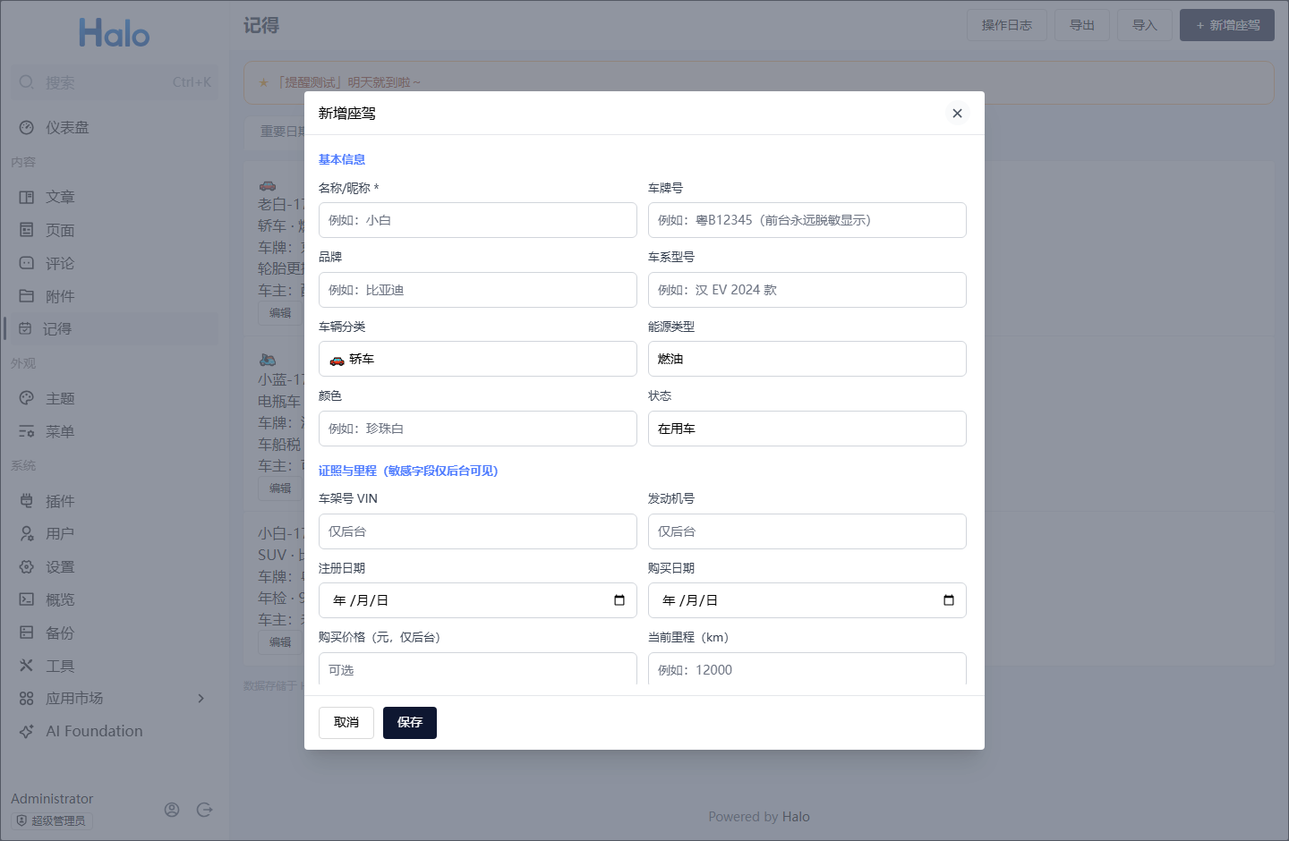
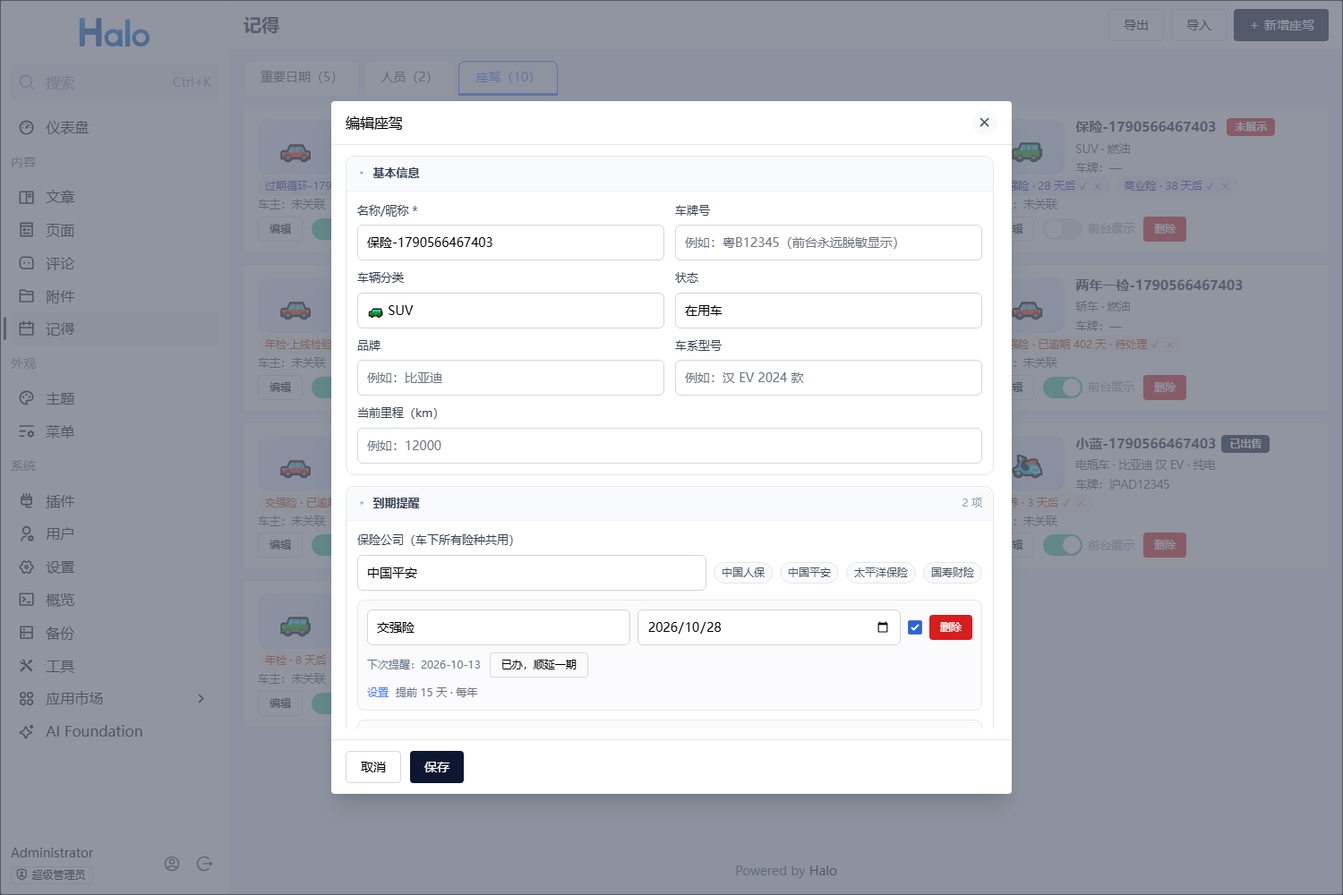
release: v1.3.0 - vehicle forms tiered by vehicle type, rebuilt car dialog, and a fix for a defect that shipped in 1.2.6/1.2.7
Version 1.3.0 (stable). Highlights:

- Fixed a shipped defect: the trailing return in resolveDueDate() had been swallowed into the
  preceding comment, so every non-inspection reminder resolved to null and the console vehicle
  cards lost their insurance/tax/maintenance due badges entirely. The dashboard widget and the
  reminder state machine read the server endpoint, which is why the existing suites stayed green.
- The vehicle form is tiered by "has an engine / has a plate": e-bike locks the energy type to EV
  and keeps only the plate and frame number; bicycle drops plate, energy type, frame number,
  mileage and purchase price; insurer and the insurance/inspection/road-tax items only appear for
  motor vehicles. Driver licence renewal is no longer attached to a vehicle.
- Switching vehicle type keeps data: unsupported items are archived in the form, written back
  untouched, and neither the console nor the backend alerts on them until the type supports them
  again.
- The car dialog is regrouped into five collapsible sections built on native <details>, and each
  due item is a single row with its details behind "settings".
- Legacy energy values are corrected at display time only (bicycle -> human, e-bike -> EV, stray
  human -> fuel); stored data is never rewritten.
- Removed unreachable code: self-check panel, operation-log dialog and their call sites,
  selfCheck.ts, OperationLog.java, OperationLogCleaner.java, orphaned CSS, and the stale
[…]

diff --git a/README.store.md b/README.store.md
@@ -16,7 +16,7 @@
 | ![仪表盘提醒小组件](https://raw.githubusercontent.com/yyliucha/plugin-important-dates/main/docs/screenshots/screenshot-dashboard.png) | **控制台仪表盘小组件**：到期提醒常驻仪表盘，每分钟自动刷新 |
 | ![后台页签](https://raw.githubusercontent.com/yyliucha/plugin-important-dates/main/docs/screenshots/screenshot-console-main.png) | **后台页签**：重要日期 / 人员 / 座驾，提醒横幅 + 卡片列表 + 拖拽排序 |
 | ![座驾列表](https://raw.githubusercontent.com/yyliucha/plugin-important-dates/main/docs/screenshots/screenshot-console-car.png) | **座驾页签**：分类图标、车牌、到期徽章（已过期 / 临近）、车主与驾驶人、前台开关 |
-| ![座驾表单](https://raw.githubusercontent.com/yyliucha/plugin-important-dates/main/docs/screenshots/screenshot-console-car-form.png) | **座驾表单**：分类（含电瓶车 / 自行车）、能源、证照与里程、多图相册、到期项 |
+| ![座驾表单](https://raw.githubusercontent.com/yyliucha/plugin-important-dates/main/docs/screenshots/screenshot-console-car-form.png) | **座驾表单（1.3.0）**：五个可折叠分区（基本信息 / 到期提醒默认展开）；字段按车型显示——电瓶车锁定「纯电」、不留发动机号，自行车连车牌与能源都不出现 |
 | ![前台页面](https://raw.githubusercontent.com/yyliucha/plugin-important-dates/main/docs/screenshots/screenshot-frontend-page.png) | **前台 `/important-dates`**：生活视图——重要日期 + 牵挂的人（生日与纪念日倒计时） |
 | ![前台爱车视图](https://raw.githubusercontent.com/yyliucha/plugin-important-dates/main/docs/screenshots/screenshot-frontend-car.png) | **爱车视图**：车辆卡片（脱敏车牌、到期徽章）+ 车主与驾驶人（统一徽章）+ 其他重要的人 |
 | ![前台相册](https://raw.githubusercontent.com/yyliucha/plugin-important-dates/main/docs/screenshots/screenshot-frontend-album.png) | **相册查看**：点击封面全屏浏览（只读、Esc 关闭），仅显示后台勾选「展示」的照片 |
@@ -35,6 +35,8 @@
 
 **🚗 座驾（汽车 / 电瓶车 / 自行车）**
 - **17 类分类**（轿车 / SUV / MPV / 跑车 / 越野车 / 皮卡 / 旅行车 / 两厢车 / 跨界车 / 微面 / 房车 / 货车 / 客车 / 摩托车 / **电瓶车 / 自行车** / 其他）、能源类型（燃油 / 纯电 / 插混 / 油电混动 / 人力）、品牌型号、颜色、VIN、发动机号、注册与购买日期、里程、状态（在用车 / 已出售 / 已报废）
+- **按车型只显示用得上的字段（1.3.0）**：以「有没有发动机、有没有牌照」分档——**自行车**不显示车牌 / 能源类型 / 车架号 / 里程 / 购买价格；**电瓶车**保留车牌与车架号（称「整车编号 / 车架号」），能源类型锁定为**纯电**，不显示发动机号与首次登记日期；保险公司与保险 / 年检 / 车船税只对汽车、摩托车等机动车出现。编辑弹窗相应精简为**五个可折叠分区**（基本信息、到期提醒默认展开，相册 / 关联人员 / 更多资料收起并显示摘要），每条到期项压成一行、细节收进「设置」
+- **改车型不丢数据**：把汽车改成自行车时，已有的保险 / 年检项**保留在库里但不再展示、也不再提醒**（表单里看不到、卡片与前台都不出现），改回汽车后**原样恢复**，到期日一字不改
 - **多图相册**：上传或附件库多选、拖拽排序、设封面；**每张可单独勾选「展示」**（未勾选仅后台可见，适合行驶证、保单等证件照）
 - **附件库来源范围**：可在「设置 → 照片设置」为**人员大头贴**与**座驾相册**分别指定「分类（分组）」与「存储策略」；命中不到时**自动放宽范围**并在弹窗中说明当前生效范围与命中数（不会出现空白列表），也可一键「显示全部图片」
 - **图片失效自动降级**：附件被删除（或被其它插件的全局规则拦截）导致图片打不开时，前台封面回退车型图标、大头贴回退首字、相册显示占位说明——**访客永远看不到破图**；后台车辆/人员卡片会标出「含失效图片 N」「大头贴已失效」，可一键「移除失效图片」或逐张「重新选择」
@@ -44,7 +46,7 @@
 - **弹窗内动作原地生效**：在座驾编辑弹窗点「已办 / 撤销办理」立即写库、只刷新本行、**不关闭弹窗**（不必再"记得点保存"）
 - **提醒可逐条忽略**：前台横幅与仪表盘小组件每条右侧的 ✕ 表示"本次到期周期内不再提示"（存在浏览器里，到期日变化后自动恢复），可一键「恢复显示」，也可在设置里关闭
 - **年检规则可配置**：「座驾设置 → 年检节点（默认 2,4,6,10）」「从第几年起每年上线检验（默认 11）」可按当地车管所规则调整，表单预览与提醒同步
-- **到期提醒**：交强险 / 商业险 / 年检 / 保养（按上次保养 + 间隔月数推算）/ 车船税 / 驾照换证 / 自定义项；每项可设启用、提前天数与**循环间隔**（每年 / 每两年 / 每三年 / 不循环 / 自定义月数）；已出售 / 报废不再提醒
+- **到期提醒**：交强险 / 商业险 / 年检 / 保养（按上次保养 + 间隔月数推算）/ 车船税 / 自定义项；每项可设启用、提前天数与**循环间隔**（每年 / 每两年 / 每三年 / 不循环 / 自定义月数）；已出售 / 报废不再提醒（「驾照换证」自 1.3.0 起不再挂在座驾上——它属于"人"而非"车"，同一个人开两辆车不会重复提醒）
 - **保险公司填一次就够**：车辆级「保险公司」全车共用（含常用公司快捷提示），个别险种可「使用其他保险公司」单独覆盖；老数据启动时自动迁移（幂等）
 - **年检自动推算**：按「首次登记日期 + 车型规则」推算下一次年检（第 2/4 年免检申领 → 第 6/10 年上线检验 → 第 11 年起每年），提示阶段与依据，可「手动指定日期」覆盖；默认提前 30 天提醒
 - **年检 / 车船税默认与保险同期**：日期跟随交强险到期日（可取消后独立填写），保存时写入相同日期
@@ -80,7 +82,7 @@
 
 ## 兼容性
 
-- **Halo 2.26 及以上**（按官方 2.26 文档与扩展点实现；Java 17 字节码；1.2.6 在全新 2.26 实例经保养项语义、状态机、提示与撤销、图片失效降级、浏览器端到端 13/13 等专项验证）
+- **Halo 2.26 及以上**（按官方 2.26 文档与扩展点实现；Java 17 字节码；1.3.0 在真实 2.26 实例上以既有数据（含 10 辆历史车辆）完成功能自测 18/18 与前台回归 5/5，覆盖卡片到期项、车型联动、切车型不丢数据、折叠分区与老数据纠偏）
 - 管理员安装后默认拥有全部权限，无需手动配置角色权限
 
 ## 安装与升级
@@ -125,9 +127,11 @@ cd plugin-important-dates
 ./gradlew build
 ```
 
-构建结果位于 `build/libs/plugin-important-dates-<版本>.jar`（当前版本：`1.2.6`）。
+构建结果位于 `build/libs/plugin-important-dates-<版本>.jar`（当前版本：`1.3.0`）。
 
-> 版本说明：**最新正式版** `1.2.6`（提醒状态机：已办才滚动、逾期逐日提醒后转待处理、节点式提醒、保养项「已办」= 刚做完保养、一键撤销、前台只显示未逾期的待办项、弹窗内动作原地生效、提示语人性化；并含 `1.2.5` 写操作加固与图片失效降级、`1.2.4` 拖拽 503 修复、`1.2.3` 卡片样式修复、`1.2.2` 附件库范围修复）。装包后请强刷一次浏览器（Ctrl+Shift+R）。
+> 版本说明：**最新正式版** `1.3.0`（座驾按车型分档只显示用得上的字段——电瓶车锁定纯电、自行车不留车牌与能源；改车型保留数据不再提醒、改回即恢复；编辑弹窗改为可折叠分区；不再把「驾照换证」挂在座驾上；并修复 `1.2.6` 起后台座驾卡片的到期项标签会整块消失的缺陷）。装包后请强刷一次浏览器（Ctrl+Shift+R）。
+>
+> 更早：`1.2.6` 提醒状态机（已办才滚动、逾期逐日提醒、节点式提醒、保养项「已办」= 刚做完保养、一键撤销）与 `1.2.5` 写操作加固与图片失效降级、`1.2.4` 拖拽 503 修复、`1.2.3` 卡片样式修复、`1.2.2` 附件库范围修复。
 
 ## License
 

diff --git a/README.md b/README.md
@@ -16,7 +16,7 @@
 | ![仪表盘提醒小组件](docs/screenshots/screenshot-dashboard.png) | **控制台仪表盘小组件**：到期提醒常驻仪表盘，每分钟自动刷新 |
 | ![后台页签](docs/screenshots/screenshot-console-main.png) | **后台页签**：重要日期 / 人员 / 座驾，提醒横幅 + 卡片列表 + 拖拽排序 |
 | ![座驾列表](docs/screenshots/screenshot-console-car.png) | **座驾页签**：分类图标、车牌、到期徽章（已过期 / 临近）、车主与驾驶人、前台开关 |
-| ![座驾表单](docs/screenshots/screenshot-console-car-form.png) | **座驾表单**：分类（含电瓶车 / 自行车）、能源、证照与里程、多图相册、到期项 |
+| ![座驾表单](docs/screenshots/screenshot-console-car-form.png) | **座驾表单（1.3.0）**：五个可折叠分区（基本信息 / 到期提醒默认展开）；字段按车型显示——电瓶车锁定「纯电」、不留发动机号，自行车连车牌与能源都不出现 |
 | ![前台页面](docs/screenshots/screenshot-frontend-page.png) | **前台 `/important-dates`**：生活视图——重要日期 + 牵挂的人（生日与纪念日倒计时） |
 | ![前台爱车视图](docs/screenshots/screenshot-frontend-car.png) | **爱车视图**：车辆卡片（脱敏车牌、到期徽章）+ 车主与驾驶人（统一徽章）+ 其他重要的人 |
 | ![前台相册](docs/screenshots/screenshot-frontend-album.png) | **相册查看**：点击封面全屏浏览（只读、Esc 关闭），仅显示后台勾选「展示」的照片 |
@@ -35,6 +35,8 @@
 
 **🚗 座驾（汽车 / 电瓶车 / 自行车）**
 - **17 类分类**（轿车 / SUV / MPV / 跑车 / 越野车 / 皮卡 / 旅行车 / 两厢车 / 跨界车 / 微面 / 房车 / 货车 / 客车 / 摩托车 / **电瓶车 / 自行车** / 其他）、能源类型（燃油 / 纯电 / 插混 / 油电混动 / 人力）、品牌型号、颜色、VIN、发动机号、注册与购买日期、里程、状态（在用车 / 已出售 / 已报废）
+- **按车型只显示用得上的字段（1.3.0）**：以「有没有发动机、有没有牌照」分档——**自行车**不显示车牌 / 能源类型 / 车架号 / 里程 / 购买价格；**电瓶车**保留车牌与车架号（称「整车编号 / 车架号」），能源类型锁定为**纯电**，不显示发动机号与首次登记日期；保险公司与保险 / 年检 / 车船税只对汽车、摩托车等机动车出现。编辑弹窗相应精简为**五个可折叠分区**（基本信息、到期提醒默认展开，相册 / 关联人员 / 更多资料收起并显示摘要），每条到期项压成一行、细节收进「设置」
+- **改车型不丢数据**：把汽车改成自行车时，已有的保险 / 年检项**保留在库里但不再展示、也不再提醒**（表单里看不到、卡片与前台都不出现），改回汽车后**原样恢复**，到期日一字不改
 - **多图相册**：上传或附件库多选、拖拽排序、设封面；**每张可单独勾选「展示」**（未勾选仅后台可见，适合行驶证、保单等证件照）
 - **附件库来源范围**：可在「设置 → 照片设置」为**人员大头贴**与**座驾相册**分别指定「分类（分组）」与「存储策略」；命中不到时**自动放宽范围**并在弹窗中说明当前生效范围与命中数（不会出现空白列表），也可一键「显示全部图片」
 - **图片失效自动降级**：附件被删除（或被其它插件的全局规则拦截）导致图片打不开时，前台封面回退车型图标、大头贴回退首字、相册显示占位说明——**访客永远看不到破图**；后台车辆/人员卡片会标出「含失效图片 N」「大头贴已失效」，可一键「移除失效图片」或逐张「重新选择」
@@ -44,7 +46,7 @@
 - **弹窗内动作原地生效**：在座驾编辑弹窗点「已办 / 撤销办理」立即写库、只刷新本行、**不关闭弹窗**（不必再"记得点保存"）
 - **提醒可逐条忽略**：前台横幅与仪表盘小组件每条右侧的 ✕ 表示"本次到期周期内不再提示"（存在浏览器里，到期日变化后自动恢复），可一键「恢复显示」，也可在设置里关闭
 - **年检规则可配置**：「座驾设置 → 年检节点（默认 2,4,6,10）」「从第几年起每年上线检验（默认 11）」可按当地车管所规则调整，表单预览与提醒同步
-- **到期提醒**：交强险 / 商业险 / 年检 / 保养（按上次保养 + 间隔月数推算）/ 车船税 / 驾照换证 / 自定义项；每项可设启用、提前天数与**循环间隔**（每年 / 每两年 / 每三年 / 不循环 / 自定义月数）；已出售 / 报废不再提醒
+- **到期提醒**：交强险 / 商业险 / 年检 / 保养（按上次保养 + 间隔月数推算）/ 车船税 / 自定义项；每项可设启用、提前天数与**循环间隔**（每年 / 每两年 / 每三年 / 不循环 / 自定义月数）；已出售 / 报废不再提醒（「驾照换证」自 1.3.0 起不再挂在座驾上——它属于"人"而非"车"，同一个人开两辆车不会重复提醒）
 - **保险公司填一次就够**：车辆级「保险公司」全车共用（含常用公司快捷提示），个别险种可「使用其他保险公司」单独覆盖；老数据启动时自动迁移（幂等）
 - **年检自动推算**：按「首次登记日期 + 车型规则」推算下一次年检（第 2/4 年免检申领 → 第 6/10 年上线检验 → 第 11 年起每年），提示阶段与依据，可「手动指定日期」覆盖；默认提前 30 天提醒
 - **年检 / 车船税默认与保险同期**：日期跟随交强险到期日（可取消后独立填写），保存时写入相同日期
@@ -80,7 +82,7 @@
 
 ## 兼容性
 
-- **Halo 2.26 及以上**（按官方 2.26 文档与扩展点实现；Java 17 字节码；1.2.6 在全新 2.26 实例经保养项语义、状态机、提示与撤销、图片失效降级、浏览器端到端 13/13 等专项验证）
+- **Halo 2.26 及以上**（按官方 2.26 文档与扩展点实现；Java 17 字节码；1.3.0 在真实 2.26 实例上以既有数据（含 10 辆历史车辆）完成功能自测 18/18 与前台回归 5/5，覆盖卡片到期项、车型联动、切车型不丢数据、折叠分区与老数据纠偏）
 - 管理员安装后默认拥有全部权限，无需手动配置角色权限
 
 ## 安装与升级
@@ -125,9 +127,11 @@ cd plugin-important-dates
 ./gradlew build
 ```
 
-构建结果位于 `build/libs/plugin-important-dates-<版本>.jar`（当前版本：`1.2.6`）。
+构建结果位于 `build/libs/plugin-important-dates-<版本>.jar`（当前版本：`1.3.0`）。
 
-> 版本说明：**最新正式版** `1.2.6`（提醒状态机：已办才滚动、逾期逐日提醒后转待处理、节点式提醒、保养项「已办」= 刚做完保养、一键撤销、前台只显示未逾期的待办项、弹窗内动作原地生效、提示语人性化；并含 `1.2.5` 写操作加固与图片失效降级、`1.2.4` 拖拽 503 修复、`1.2.3` 卡片样式修复、`1.2.2` 附件库范围修复）。装包后请强刷一次浏览器（Ctrl+Shift+R）。
+> 版本说明：**最新正式版** `1.3.0`（座驾按车型分档只显示用得上的字段——电瓶车锁定纯电、自行车不留车牌与能源；改车型保留数据不再提醒、改回即恢复；编辑弹窗改为可折叠分区；不再把「驾照换证」挂在座驾上；并修复 `1.2.6` 起后台座驾卡片的到期项标签会整块消失的缺陷）。装包后请强刷一次浏览器（Ctrl+Shift+R）。
+>
+> 更早：`1.2.6` 提醒状态机（已办才滚动、逾期逐日提醒、节点式提醒、保养项「已办」= 刚做完保养、一键撤销）与 `1.2.5` 写操作加固与图片失效降级、`1.2.4` 拖拽 503 修复、`1.2.3` 卡片样式修复、`1.2.2` 附件库范围修复。
 
 ## License
 

diff --git a/README.en.md b/README.en.md
@@ -35,6 +35,8 @@ A Halo 2.x plugin that remembers things for you: anniversaries, birthdays and th
 
 **🚗 Vehicles (cars / e-bikes / bicycles)**
 - **17 categories** (sedan / SUV / MPV / sports / off-road / pickup / wagon / hatchback / crossover / van / RV / truck / bus / motorcycle / **e-bike / bicycle** / other), energy type (fuel / EV / PHEV / HEV / human), brand & model, colour, VIN, engine no., registration & purchase dates, mileage, status (in use / sold / scrapped)
+- **Only the fields your vehicle actually has (1.3.0)**: the form is tiered by "does it have an engine, does it have a plate" — a **bicycle** shows no plate, energy type, frame number, mileage or purchase price; an **e-bike** keeps the plate and frame number (labelled "frame / vehicle number"), locks the energy type to **EV** and hides the engine number and first-registration date; the insurer and the insurance / inspection / road-tax items only appear for cars, motorcycles and other motor vehicles. The dialog is regrouped into **five collapsible sections** (basic info and due items open by default; album, people and more collapsed with a summary), and each due item is a single row with its details behind "settings"
+- **Switching vehicle type never loses data**: turn a car into a bicycle and its insurance / inspection items are **kept in the database but no longer shown or alerted on** (absent from the form, the cards and the public page); switch back and they return exactly as they were, due dates untouched
 - **Photo album**: upload or multi-select from the attachment library, drag to reorder, set cover; **each photo can be toggled visible/hidden** (hidden ones stay admin-only — handy for licence and insurance papers)
 - **Attachment library scope**: under Settings → Photo settings you can point the **person avatar** and the **vehicle album** at a category (group) and a storage policy; when nothing matches, the scope **widens automatically** and the dialog explains what is in effect and how many images match (no more empty lists), with a one-click "show all images"
 - **Dead images degrade gracefully**: when an attachment is deleted (or blocked by another plugin's global rule), a public cover falls back to the vehicle icon, an avatar to the initial character and an album photo to a placeholder — **visitors never see a broken image**; the console flags `含失效图片 N` / `大头贴已失效` and offers one-click removal or per-photo replacement
@@ -44,7 +46,7 @@ A Halo 2.x plugin that remembers things for you: anniversaries, birthdays and th
 - **In-place actions**: Done / Undo inside the vehicle dialog persist immediately, refresh just that row and keep the dialog open
 - **Dismiss a single reminder**: the ✕ on each line of the public banner and the dashboard widget means "not again this due cycle" (stored in the browser, restored automatically when the due date changes), with one-click restore and a setting to switch the capability off
 - **Configurable inspection rule**: "Vehicle settings → inspection nodes (2,4,6,10 by default)" and "yearly on-site inspection from (11 by default)" adapt to your local vehicle-office rules, and the form preview and reminders follow
-- **Due reminders**: compulsory & commercial insurance, inspection, maintenance (computed from last service + interval), road tax, licence renewal, custom items; per-item lead days, on/off and **repeat interval** (every year / two years / three years / one-off / custom months); sold/scrapped vehicles stop reminding
+- **Due reminders**: compulsory & commercial insurance, inspection, maintenance (computed from last service + interval), road tax, custom items; per-item lead days, on/off and **repeat interval** (every year / two years / three years / one-off / custom months); sold/scrapped vehicles stop reminding (driver licence renewal is no longer attached to a vehicle as of 1.3.0 - it belongs to a person, so one driver with two cars is not reminded twice)
 - **One insurer per vehicle**: a vehicle-level insurer shared by every policy item (with quick picks for common companies); a single item can still override it, and existing data is migrated idempotently at startup
 - **Inspection derived from the rules**: the next inspection is derived from the first registration date plus the vehicle category (sticker in years 2/4, on-site in years 6/10, yearly from year 11) with the stage and its basis shown; a manual date can override it, and the default lead time is 30 days
 - **Inspection and road tax follow the insurance date** by default (untick to enter a separate date); the same date is saved
@@ -80,7 +82,7 @@ A Halo 2.x plugin that remembers things for you: anniversaries, birthdays and th
 
 ## Compatibility
 
-- **Halo 2.26+** (built against the official 2.26 docs and extension points; Java 17 bytecode; full regression on a clean 2.26 instance: 50/50 passed; 1.2.5 additionally verified with 13/13 browser end-to-end checks and 18 targeted checks)
+- **Halo 2.26+** (built against the official 2.26 docs and extension points; Java 17 bytecode; 1.3.0 verified on a real 2.26 instance against existing data including 10 historical vehicles — functional suite 18/18 and front-end regression 5/5, covering the card due items, the vehicle-type linkage, data retention across a type switch, the collapsible sections and legacy-data correction)
 - Administrators get all permissions after installation; no role setup needed
 
 ## Install & upgrade
@@ -125,7 +127,9 @@ cd plugin-important-dates
 ./gradlew build
 ```
 
-The artifact is written to `build/libs/plugin-important-dates-<version>.jar` (current version: `1.2.6`; previous stable: `1.2.5`). Hard-refresh your browser once after installing a new build.
+The artifact is written to `build/libs/plugin-important-dates-<version>.jar` (current version: `1.3.0`; previous stable: `1.2.7`). Hard-refresh your browser once after installing a new build.
+
+> Release notes: **1.3.0** tiers the vehicle form by what the vehicle actually has (e-bike locked to EV, bicycle without plate or energy type), keeps data when the type changes instead of destroying it, rebuilds the dialog around collapsible sections, drops driver licence renewal from vehicle reminders, and fixes a defect introduced in 1.2.6 that made the due-item badges on the console vehicle cards disappear entirely.
 
 ## License
 

diff --git a/docs/release-notes-1.3.0.en.md b/docs/release-notes-1.3.0.en.md
@@ -1,0 +1,76 @@
+# 1.3.0 · vehicle forms tiered by vehicle type, a rebuilt dialog, and a fix for a defect that could go unnoticed
+
+> Hard-refresh your browser once after installing (**Ctrl+Shift+R**): the console caches plugin UI bundles, and a stale bundle will not show the new form.
+
+## 1. A shipped defect, fixed (introduced in 1.2.6, affecting 1.2.7)
+
+On the console **Remember → Vehicles** cards, the **insurance / road-tax / maintenance due badges disappeared entirely**, leaving only inspection, and the card read "no enabled due items".
+
+**Root cause**: the trailing `return` in `resolveDueDate()` had been swallowed into the preceding comment line, so the function returned nothing for every **non-inspection** reminder — and every caller skips on an empty result.
+
+**Why the existing tests stayed green**: the dashboard widget and the reminder state machine read the **server endpoint**, while this function is only used by the **console page** — a path that had no coverage at all. It is fixed, and a browser case now covers it.
+
+## 2. The vehicle form only shows the fields a vehicle actually has
+
+Tiered by **"does it have an engine, does it have a plate"**, so e-bikes and bicycles are no longer handed insurance, inspection and road tax:
+
+| Field | 🚗 Car / motorcycle | 🛵 E-bike | 🚲 Bicycle |
+|---|---|---|---|
+| Energy type | selectable | **locked to EV** (read-only) | **hidden** |
+| Plate number | shown | shown | **hidden** |
+| Frame number | shown | shown (labelled "frame / vehicle number") | **hidden** |
+| Engine number | shown | **hidden** | **hidden** |
+| First registration date | shown (used to derive inspection) | **hidden** | **hidden** |
+| Mileage / mileage date | shown | shown | **hidden** |
+| Insurer | shown | **hidden** | **hidden** |
+| Due items offered | compulsory & commercial insurance, inspection, maintenance, road tax, custom | maintenance, custom | maintenance, custom |
+
+**Driver licence renewal is no longer attached to a vehicle**: it belongs to a person, not a car, so one driver with two cars is not reminded twice. Existing items are kept in the database and simply stop showing and alerting.
+
+## 3. Switching vehicle type never loses data
+
+Turn a car into a bicycle and its insurance / inspection items are **not deleted**:
+
+- they disappear from the form (and from the item dropdown);
+- the cards, the dashboard widget, the public banner and the toast **all stop alerting on them**;
+- switch back to a car and they return **exactly as they were**, due dates untouched.
+
+Front end and backend apply the same rule for "should this item be alerted on for this vehicle type", and **your stored data is never rewritten**.
+
+## 4. The edit dialog is no longer a long scroll
+
+- **Five collapsible sections**: **basic info** and **due items** open by default; **album**, **people** and **more** collapsed with a summary on the right (e.g. "3 photos", "站长（孙铭）");
+- Collapsing uses the **native `<details>` element**, so expand/collapse is guaranteed by the browser rather than by scripted styles;
+- Each due item went from two rows plus sub-blocks to a **single row**, with lead days and repeat interval behind "settings" and a plain-language summary when collapsed (e.g. "15 days ahead · yearly").
+
+## 5. Legacy energy values are corrected on display
+
+Older vehicles usually carry the default energy type "fuel", which e-bikes and bicycles inherited too (a card read "bicycle · petrol").
+
+The label is now **corrected by vehicle type at display time**: bicycle → human, e-bike → EV, a stray "human" on a motor vehicle → fuel.
+**Stored data is not rewritten** — only the display is corrected; saving the form once persists the normalised value.
+
+## 6. Unreachable code removed
+
+- The self-check panel, the operation-log dialog and all of their call sites are gone (their entries were removed in 1.2.6, leaving no-op implementations behind);
+- `selfCheck.ts`, `OperationLog.java` and `OperationLogCleaner.java` deleted (the latter read a settings group that no longer exists, so it ran empty every time);
+- The stale operation-log claim in `plugin.yaml` was corrected as well.
+
+## 7. Verification
+
+On a real Halo 2.26 instance, **against existing data** (including 10 historical vehicles):
+
+| Suite | Result |
+|---|---|
+| Functional `func-128.mjs` | **18/18 PASS** |
+| Front-end regression `func-frontend.mjs` | **5/5 PASS** |
+
+Covering: card due items (the regression case for the defect above), the vehicle-type linkage, the energy lock, **data retention across a type switch**, collapsible sections not taking up space plus click to expand/collapse, the backend reminder endpoint filtering by vehicle type, legacy energy correction, and no JS errors on either surface.
+
+Self-testing also uncovered and fixed two further problems: **items that do not apply were still alerting** (only the form had been filtered), and **legacy energy values displayed incorrectly**.
+
+## 8. Upgrading
+
+- **Halo 2.26+**; upgrade straight from 1.2.x, **no data is lost** and no migration script is needed;
+- If your theme directory has a `templates/important-dates.html` override, replace it with the latest from `docs/theme-override/` (this release did not change the public vehicle card structure);
+- Hard-refresh your browser once after installing.

diff --git a/docs/release-notes-1.3.0.md b/docs/release-notes-1.3.0.md
@@ -1,0 +1,76 @@
+# 1.3.0 正式版说明 · 座驾按车型分档，弹窗重构，并修掉一个会漏发的缺陷
+
+> 装包后请**强刷浏览器（Ctrl+Shift+R）**：控制台会缓存插件的界面包，不刷新可能看不到新版表单。
+
+## 一、修掉一个严重缺陷（1.2.6 引入，1.2.7 受影响）
+
+后台「记得 → 座驾」卡片上的**交强险 / 商业险 / 车船税 / 保养到期标签整块消失**，只剩年检，卡片显示「暂无启用的到期项」。
+
+**根因**：`resolveDueDate()` 末尾那一行 `return` 被写进了上一行的注释里，于是这个函数对所有**非年检**的到期项都返回空；而所有调用方都是"取不到就跳过"。
+
+**为什么之前的测试没抓到**：仪表盘小组件与提醒状态机读的是**服务端接口**，而这个函数只在**控制台页面**里用——那条路径此前没有任何用例覆盖。现已修复，并补上了针对它的浏览器用例。
+
+## 二、座驾表单按车型只显示用得上的字段
+
+以「**有没有发动机、有没有牌照**」分档，不再把保险、年检、车船税一股脑塞给电瓶车和自行车：
+
+| 控件 | 🚗 汽车 / 摩托等 | 🛵 电瓶车 | 🚲 自行车 |
+|---|---|---|---|
+| 能源类型 | 可选 | **锁定「纯电」**（只读） | **隐藏** |
+| 车牌号 | 显示 | 显示 | **隐藏** |
+| 车架号 | 显示 | 显示（改称「整车编号 / 车架号」） | **隐藏** |
+| 发动机号 | 显示 | **隐藏** | **隐藏** |
+| 首次登记日期 | 显示（年检推算用） | **隐藏** | **隐藏** |
+| 当前里程 / 里程更新日期 | 显示 | 显示 | **隐藏** |
+| 保险公司 | 显示 | **隐藏** | **隐藏** |
+| 到期项可选 | 交强险/商业险/年检/保养/车船税/自定义 | 保养/自定义 | 保养/自定义 |
+
+**「驾照换证」不再挂在座驾上**：它属于"人"而不是"车"，同一个人开两辆车时不会重复提醒。库里已有的项会保留，只是不再展示、也不再提醒。
+
+## 三、改车型不丢数据
+
+把汽车改成自行车时，已有的保险 / 年检项**不会被删除**：
+
+- 表单里看不到（下拉里也没有该项）；
+- 卡片、仪表盘小组件、前台横幅与悬浮弹窗**都不再提醒**；
+- 改回汽车后**原样恢复**，到期日一个字都不改。
+
+前后端用同一套规则判断"这个车型该不该提醒这一项"，**不改写你已存的数据**。
+
+## 四、编辑弹窗不再那么长
+
+- 分为**五个可折叠分区**：**基本信息**、**到期提醒**默认展开，**相册**、**关联人员**、**更多资料**默认收起，标题右侧还带摘要（如「3 张」「站长（孙铭）」）；
+- 折叠用的是**浏览器原生 `<details>`**，展开收起由浏览器保证，不依赖脚本去改样式；
+- 每条到期项从"两行三列 + 若干子块"压成**一行**，提前天数与循环间隔收进「设置」，收起时用一句人话概括（如「提前 15 天 · 每年」）。
+
+## 五、老数据的能源显示纠偏
+
+老车的能源类型多半是默认值「燃油」，自行车与电瓶车也会中招（卡片显示成「自行车 · 燃油」）。
+
+现在**展示时按车型纠偏**：自行车 → 人力，电瓶车 → 纯电，机动车若残留「人力」→ 燃油。
+**不改写已存数据**，只是把显示纠正过来；在表单里保存一次会把归一后的值存下来。
+
+## 六、清理掉已经不可达的代码
+
+- 移除自检面板、操作日志弹窗及其全部调用点（入口在 1.2.6 已删除，只剩空转的空实现）；
+- 删除 `selfCheck.ts`、`OperationLog.java`、`OperationLogCleaner.java`（后者读的 `log` 设置组早已不存在，等于每次空跑）；
+- 顺带修正 `plugin.yaml` 的描述——之前还在宣传已移除的「操作日志」。
+
+## 七、验证
+
+在真实 Halo 2.26 实例上，**复用既有数据**（含 10 辆历史车辆）执行：
+
+| 套件 | 结果 |
+|---|---|
+| 功能自测 `func-128.mjs` | **18/18 PASS** |
+| 前台回归 `func-frontend.mjs` | **5/5 PASS** |
+
+覆盖：卡片到期项（上述缺陷的回归用例）、车型字段联动、能源锁定、**切车型保存不丢数据**、折叠分区不占位与点击展开收起、后端提醒接口按车型过滤、老数据能源纠偏、前后台无 JS 报错。
+
+自测过程中另外揪出并修掉了两个问题：**车型不适用的项仍在报警**（此前只做到"表单不显示"）、**老数据能源显示错误**。
+
+## 八、升级方式
+
+- **Halo 2.26 及以上**；由 1.2.x 直接升级即可，**数据不会丢失**，无需迁移脚本；
+- 若主题目录存在 `templates/important-dates.html` 覆盖文件，建议用仓库 `docs/theme-override/` 下最新版替换（本版未改动前台车卡结构）；
+- 装包后请强刷一次浏览器。

diff --git a/docs/store-assets/app-info.md b/docs/store-assets/app-info.md
@@ -9,11 +9,11 @@
 
 ## 二、列表简介（纯文本，一句话）
 
-原名「重要日期」，1.2.0 起更名「记得」：记纪念日与生日（阳历/农历），也记爱车的保险、年检、保养到期，到点前提醒你；年检可按登记日期与车型规则自动推算，支持前台展示与隐私脱敏。
+原名「重要日期」，1.2.0 起更名「记得」：记纪念日与生日（阳历/农历），也记爱车的保险、年检、保养到期，到点前提醒你；座驾按车型只显示用得上的项目（电瓶车锁定纯电、自行车不留车牌与能源），年检可按登记日期与车型规则自动推算，支持前台展示与隐私脱敏。
 
 ## 三、应用描述（纯文本，约 160 字；只讲作用）
 
-「记得」（原名「重要日期」）帮你把容易忘记的事记下来：值得纪念的日子、身边的家人朋友，以及爱车的保险、年检、保养等到期日——到点之前它会提醒你，愿意公开的内容还能展示在博客前台。年检可按首次登记日期与车型规则自动推算（第 2/4 年免检申领、第 6/10 年上线、第 11 年起每年，规则可自行调整），办完一键顺延下一期；提醒可逐条忽略；图片失效时前台自动降级显示，不会出现破图。因为功能已从"记日期"扩展到"记日子、记人、记爱车"，1.2.0 起由「重要日期」更名为「记得」；插件标识、数据、设置与前台地址都不受影响，直接升级即可。
+「记得」（原名「重要日期」）帮你把容易忘记的事记下来：值得纪念的日子、身边的家人朋友，以及爱车的保险、年检、保养等到期日——到点之前它会提醒你，愿意公开的内容还能展示在博客前台。座驾按车型只显示用得上的项目：电瓶车锁定纯电、自行车不留车牌与能源，把汽车改成自行车时已有的保险与年检记录会保留、改回即恢复；年检可按首次登记日期与车型规则自动推算（第 2/4 年免检申领、第 6/10 年上线、第 11 年起每年，规则可自行调整），办完一键顺延下一期；提醒可逐条忽略；图片失效时前台自动降级显示，不会出现破图。因为功能已从"记日期"扩展到"记日子、记人、记爱车"，1.2.0 起由「重要日期」更名为「记得」；插件标识、数据、设置与前台地址都不受影响，直接升级即可。
 
 ## 四、更短的备选描述（约 90 字）
 
@@ -27,4 +27,4 @@
 | 备用封面 | `docs/store-assets/cover-legacy-important-dates.png` | 1600×900，名称「重要日期」 |
 | README | `README.store.md` | 应用市场 README 字段（图片绝对地址，可整段粘贴；该字段支持 Markdown） |
 | Logo | `docs/store-assets/logo.png` | 沿用现有日历图标 |
-| 版本说明 | `docs/release-notes-1.2.5.md`（正式版 1.2.5） | |
+| 版本说明 | `docs/release-notes-1.3.0.md`（正式版 1.3.0） | |
